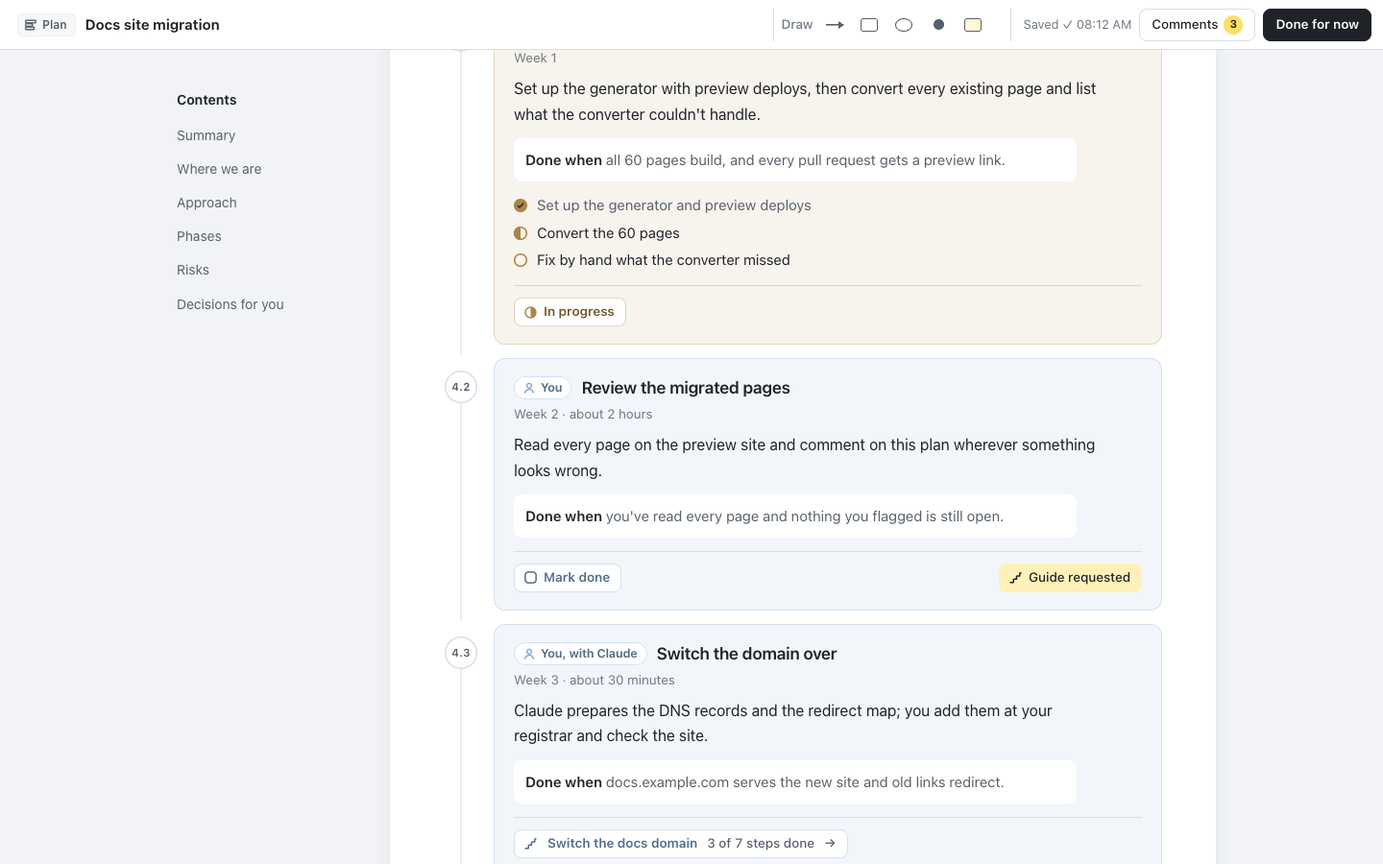
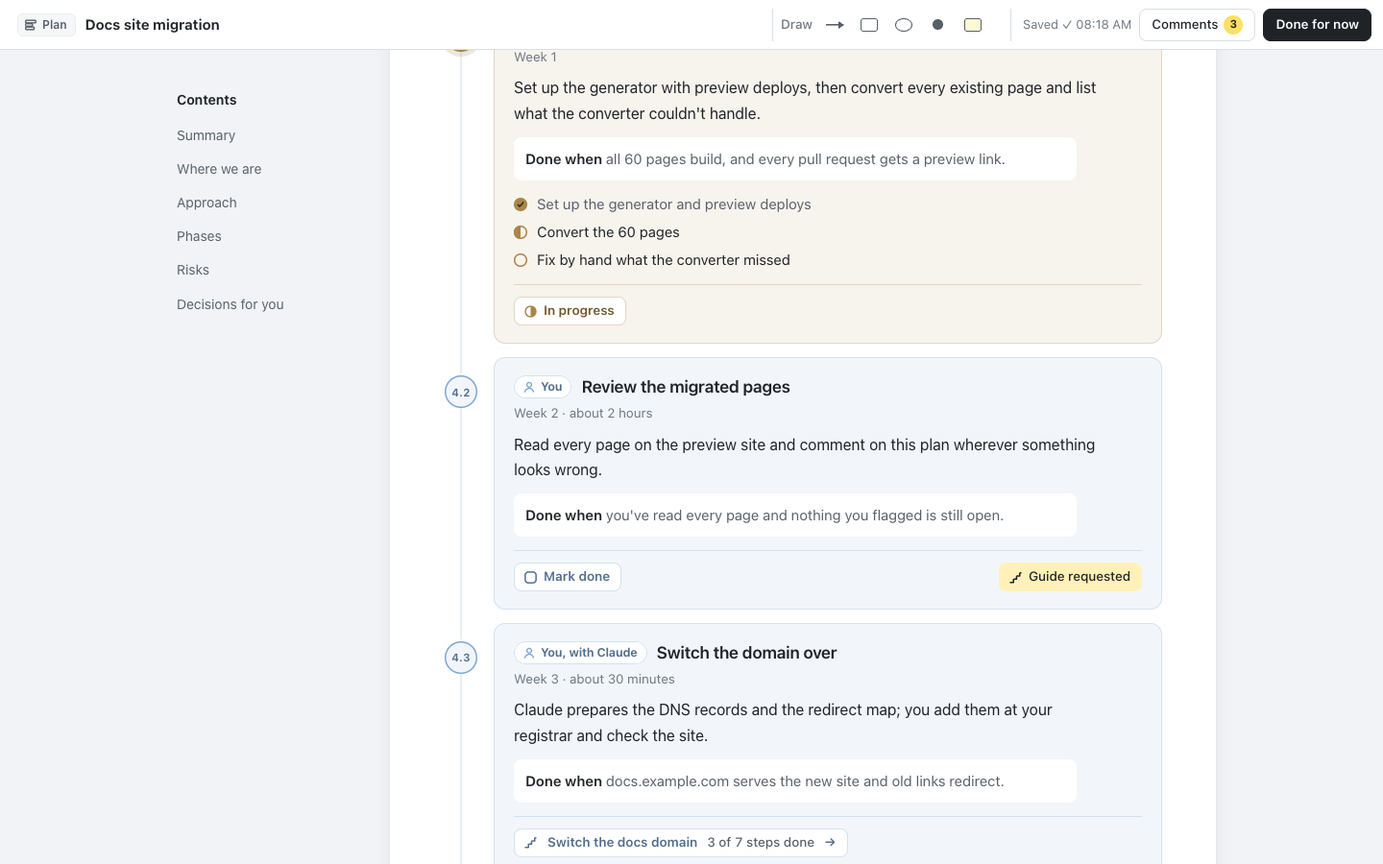
Content and steps look different; WRITING.md holds the rules
Only steps and phases are numbered on the timeline. Entries, lists,
callouts, decisions and tables sit flush with no numbers on every kind of
page, so explanation never reads as part of the sequence. WRITING.md is
the one set of writing rules every page follows (content versus steps,
ledes, concise content), read by make-plan, make-guide, make-reference
and process-notes.

diff --git a/templates/guide.html b/templates/guide.html
@@ -139,25 +139,23 @@ ul.tight { list-style: none; padding: 0; margin: 0 0 14px; }
 ul.tight > li { position: relative; padding: 12px 0; border-top: 1px solid var(--line-2); }
 ul.tight > li:last-child { border-bottom: 1px solid var(--line-2); }
 
-/* ---------- the timeline: each block in a section is a numbered node on a vertical line ---------- */
-.sec :is(.entry, ul.tight > li, .note-box, .step, .phase, .decision) { --tl-top: 12px; --tl-gap: 0px; position: relative; counter-increment: sub; margin-left: 52px; }
-.sec .entry { --tl-top: 12px; }
-.sec ul.tight > li { --tl-top: 10px; }
-.sec .note-box { --tl-top: 10px; --tl-gap: 0px; }
-.sec .step { --tl-top: 14px; --tl-gap: 12px; }
+/* ---------- the timeline: only things to do (steps, phases) are numbered nodes on a line ----------
+   Content (entries, lists, callouts, decisions, tables) sits flush, with no numbers, so it
+   never reads as part of the sequence. */
+.sec :is(.step, .phase) { --tl-top: 14px; --tl-gap: 12px; position: relative; counter-increment: sub; margin-left: 52px; }
 .sec .phase { --tl-top: 18px; --tl-gap: 14px; }
-.sec .decision { --tl-top: 0px; --tl-gap: 26px; }
-.sec :is(.entry, ul.tight > li, .note-box, .step, .phase, .decision)::before {
+.sec :is(.step, .phase)::before {
   content: counter(sec) "." counter(sub); position: absolute; z-index: 1; left: -52px; top: var(--tl-top); width: 34px; height: 34px; border-radius: 50%;
   display: grid; place-items: center; background: var(--paper); box-shadow: inset 0 0 0 1.5px var(--line); color: var(--ink-2);
   font: 650 11.5px/1 var(--sans); font-variant-numeric: tabular-nums; letter-spacing: 0; }
-.sec :is(.entry, ul.tight > li, .note-box, .step, .phase, .decision)::after {
+.sec :is(.step, .phase)::after {
   content: ""; position: absolute; left: -36px; width: 2px; border-radius: 1px; background: var(--line-2);
   top: calc(var(--tl-top) + 34px); bottom: calc(-1 * (var(--tl-gap) + var(--tl-top) + 0px)); }
 /* the line stops at the last node of each run */
-.sec .entry:not(:has(+ .entry, + .note-box))::after, .sec ul.tight > li:last-child::after, .sec .note-box::after,
-.sec .steps > .step:last-child::after, .sec .phases > .phase:last-child::after, .sec .decision:not(:has(+ .decision))::after { display: none; }
+.sec .steps > .step:last-child::after, .sec .phases > .phase:last-child::after { display: none; }
 .sec .phase-h { margin-left: 52px; }
+/* a callout among steps lines up with the step cards */
+.sec .steps + .note-box, .sec .phases + .note-box { margin-left: 52px; }
 
 /* ---------- tables ---------- */
 .table-wrap { overflow-x: auto; margin: 0 0 14px; border: 1px solid var(--line); border-radius: 10px; }
@@ -240,7 +238,7 @@ ul.tasks li[data-status="done"] { color: var(--ink-2); }
 .step .iffail { background: color-mix(in srgb, var(--warn) 8%, var(--paper)); }
 .step .iffail > b:first-child { color: var(--warn); }
 
-/* ---------- references: built for lookup, so the contents sit on the page and there's no timeline ---------- */
+/* ---------- references: built for lookup, so the contents sit on the page ---------- */
 .contents { margin: 22px 0 0; padding: 14px 18px; border-radius: 10px; background: var(--paper-2); }
 .contents h2 { margin: 0 0 6px; font-size: 15px; font-weight: 650; }
 .contents ol { columns: 2 200px; column-gap: 24px; margin: 0; padding-left: 22px; }
@@ -251,9 +249,6 @@ dl.defs > dt { padding-right: 20px; font-weight: 600; overflow-wrap: anywhere; }
 dl.defs > dd { color: var(--ink-2); }
 dl.defs > dd p { margin: 6px 0 0; }
 .sig { margin: 0 0 10px; padding: 10px 12px; border-radius: 8px; background: var(--paper-2); border: 1px solid var(--line-2); font: 14px/1.5 var(--mono); overflow-x: auto; white-space: pre; }
-:root:has(meta[name="pm-kind"][content="reference"]) .sec :is(.entry, ul.tight > li, .note-box) { margin-left: 0; }
-:root:has(meta[name="pm-kind"][content="reference"]) .sec :is(.entry, ul.tight > li, .note-box)::before,
-:root:has(meta[name="pm-kind"][content="reference"]) .sec :is(.entry, ul.tight > li, .note-box)::after { content: none; }
 
 /* On a pointer screen, a block's Comment button floats at its top right instead of taking a line. */
 @media (hover: hover) and (min-width: 721px) {
@@ -281,10 +276,10 @@ dl.defs > dd p { margin: 6px 0 0; }
   .lede { font-size: 17px; }
   .sec > h2 { font-size: 21px; }
   .sec > h2::before { width: 30px; height: 30px; font-size: 14px; }
-  .sec :is(.entry, ul.tight > li, .note-box, .step, .phase, .decision) { margin-left: 38px; }
-  .sec :is(.entry, ul.tight > li, .note-box, .step, .phase, .decision)::before { left: -38px; width: 28px; height: 28px; font-size: 10.5px; }
-  .sec :is(.entry, ul.tight > li, .note-box, .step, .phase, .decision)::after { left: -25px; top: calc(var(--tl-top) + 28px); }
-  .sec .phase-h { margin-left: 38px; }
+  .sec :is(.step, .phase) { margin-left: 38px; }
+  .sec :is(.step, .phase)::before { left: -38px; width: 28px; height: 28px; font-size: 10.5px; }
+  .sec :is(.step, .phase)::after { left: -25px; top: calc(var(--tl-top) + 28px); }
+  .sec .phase-h, .sec .steps + .note-box, .sec .phases + .note-box { margin-left: 38px; }
   .entry { grid-template-columns: minmax(0, 1fr); }
   .entry > .k, .entry > :not(.k) { grid-column: 1; grid-row: auto; }
   .step, .phase { padding: 14px; }

diff --git a/templates/plan.html b/templates/plan.html
@@ -140,25 +140,23 @@ ul.tight { list-style: none; padding: 0; margin: 0 0 14px; }
 ul.tight > li { position: relative; padding: 12px 0; border-top: 1px solid var(--line-2); }
 ul.tight > li:last-child { border-bottom: 1px solid var(--line-2); }
 
-/* ---------- the timeline: each block in a section is a numbered node on a vertical line ---------- */
-.sec :is(.entry, ul.tight > li, .note-box, .step, .phase, .decision) { --tl-top: 12px; --tl-gap: 0px; position: relative; counter-increment: sub; margin-left: 52px; }
-.sec .entry { --tl-top: 12px; }
-.sec ul.tight > li { --tl-top: 10px; }
-.sec .note-box { --tl-top: 10px; --tl-gap: 0px; }
-.sec .step { --tl-top: 14px; --tl-gap: 12px; }
+/* ---------- the timeline: only things to do (steps, phases) are numbered nodes on a line ----------
+   Content (entries, lists, callouts, decisions, tables) sits flush, with no numbers, so it
+   never reads as part of the sequence. */
+.sec :is(.step, .phase) { --tl-top: 14px; --tl-gap: 12px; position: relative; counter-increment: sub; margin-left: 52px; }
 .sec .phase { --tl-top: 18px; --tl-gap: 14px; }
-.sec .decision { --tl-top: 0px; --tl-gap: 26px; }
-.sec :is(.entry, ul.tight > li, .note-box, .step, .phase, .decision)::before {
+.sec :is(.step, .phase)::before {
   content: counter(sec) "." counter(sub); position: absolute; z-index: 1; left: -52px; top: var(--tl-top); width: 34px; height: 34px; border-radius: 50%;
   display: grid; place-items: center; background: var(--paper); box-shadow: inset 0 0 0 1.5px var(--line); color: var(--ink-2);
   font: 650 11.5px/1 var(--sans); font-variant-numeric: tabular-nums; letter-spacing: 0; }
-.sec :is(.entry, ul.tight > li, .note-box, .step, .phase, .decision)::after {
+.sec :is(.step, .phase)::after {
   content: ""; position: absolute; left: -36px; width: 2px; border-radius: 1px; background: var(--line-2);
   top: calc(var(--tl-top) + 34px); bottom: calc(-1 * (var(--tl-gap) + var(--tl-top) + 0px)); }
 /* the line stops at the last node of each run */
-.sec .entry:not(:has(+ .entry, + .note-box))::after, .sec ul.tight > li:last-child::after, .sec .note-box::after,
-.sec .steps > .step:last-child::after, .sec .phases > .phase:last-child::after, .sec .decision:not(:has(+ .decision))::after { display: none; }
+.sec .steps > .step:last-child::after, .sec .phases > .phase:last-child::after { display: none; }
 .sec .phase-h { margin-left: 52px; }
+/* a callout among steps lines up with the step cards */
+.sec .steps + .note-box, .sec .phases + .note-box { margin-left: 52px; }
 
 /* ---------- tables ---------- */
 .table-wrap { overflow-x: auto; margin: 0 0 14px; border: 1px solid var(--line); border-radius: 10px; }
@@ -241,7 +239,7 @@ ul.tasks li[data-status="done"] { color: var(--ink-2); }
 .step .iffail { background: color-mix(in srgb, var(--warn) 8%, var(--paper)); }
 .step .iffail > b:first-child { color: var(--warn); }
 
-/* ---------- references: built for lookup, so the contents sit on the page and there's no timeline ---------- */
+/* ---------- references: built for lookup, so the contents sit on the page ---------- */
 .contents { margin: 22px 0 0; padding: 14px 18px; border-radius: 10px; background: var(--paper-2); }
 .contents h2 { margin: 0 0 6px; font-size: 15px; font-weight: 650; }
 .contents ol { columns: 2 200px; column-gap: 24px; margin: 0; padding-left: 22px; }
@@ -252,9 +250,6 @@ dl.defs > dt { padding-right: 20px; font-weight: 600; overflow-wrap: anywhere; }
 dl.defs > dd { color: var(--ink-2); }
 dl.defs > dd p { margin: 6px 0 0; }
 .sig { margin: 0 0 10px; padding: 10px 12px; border-radius: 8px; background: var(--paper-2); border: 1px solid var(--line-2); font: 14px/1.5 var(--mono); overflow-x: auto; white-space: pre; }
-:root:has(meta[name="pm-kind"][content="reference"]) .sec :is(.entry, ul.tight > li, .note-box) { margin-left: 0; }
-:root:has(meta[name="pm-kind"][content="reference"]) .sec :is(.entry, ul.tight > li, .note-box)::before,
-:root:has(meta[name="pm-kind"][content="reference"]) .sec :is(.entry, ul.tight > li, .note-box)::after { content: none; }
 
 /* On a pointer screen, a block's Comment button floats at its top right instead of taking a line. */
 @media (hover: hover) and (min-width: 721px) {
@@ -282,10 +277,10 @@ dl.defs > dd p { margin: 6px 0 0; }
   .lede { font-size: 17px; }
   .sec > h2 { font-size: 21px; }
   .sec > h2::before { width: 30px; height: 30px; font-size: 14px; }
-  .sec :is(.entry, ul.tight > li, .note-box, .step, .phase, .decision) { margin-left: 38px; }
-  .sec :is(.entry, ul.tight > li, .note-box, .step, .phase, .decision)::before { left: -38px; width: 28px; height: 28px; font-size: 10.5px; }
-  .sec :is(.entry, ul.tight > li, .note-box, .step, .phase, .decision)::after { left: -25px; top: calc(var(--tl-top) + 28px); }
-  .sec .phase-h { margin-left: 38px; }
+  .sec :is(.step, .phase) { margin-left: 38px; }
+  .sec :is(.step, .phase)::before { left: -38px; width: 28px; height: 28px; font-size: 10.5px; }
+  .sec :is(.step, .phase)::after { left: -25px; top: calc(var(--tl-top) + 28px); }
+  .sec .phase-h, .sec .steps + .note-box, .sec .phases + .note-box { margin-left: 38px; }
   .entry { grid-template-columns: minmax(0, 1fr); }
   .entry > .k, .entry > :not(.k) { grid-column: 1; grid-row: auto; }
   .step, .phase { padding: 14px; }

diff --git a/templates/reference.html b/templates/reference.html
@@ -134,25 +134,23 @@ ul.tight { list-style: none; padding: 0; margin: 0 0 14px; }
 ul.tight > li { position: relative; padding: 12px 0; border-top: 1px solid var(--line-2); }
 ul.tight > li:last-child { border-bottom: 1px solid var(--line-2); }
 
-/* ---------- the timeline: each block in a section is a numbered node on a vertical line ---------- */
-.sec :is(.entry, ul.tight > li, .note-box, .step, .phase, .decision) { --tl-top: 12px; --tl-gap: 0px; position: relative; counter-increment: sub; margin-left: 52px; }
-.sec .entry { --tl-top: 12px; }
-.sec ul.tight > li { --tl-top: 10px; }
-.sec .note-box { --tl-top: 10px; --tl-gap: 0px; }
-.sec .step { --tl-top: 14px; --tl-gap: 12px; }
+/* ---------- the timeline: only things to do (steps, phases) are numbered nodes on a line ----------
+   Content (entries, lists, callouts, decisions, tables) sits flush, with no numbers, so it
+   never reads as part of the sequence. */
+.sec :is(.step, .phase) { --tl-top: 14px; --tl-gap: 12px; position: relative; counter-increment: sub; margin-left: 52px; }
 .sec .phase { --tl-top: 18px; --tl-gap: 14px; }
-.sec .decision { --tl-top: 0px; --tl-gap: 26px; }
-.sec :is(.entry, ul.tight > li, .note-box, .step, .phase, .decision)::before {
+.sec :is(.step, .phase)::before {
   content: counter(sec) "." counter(sub); position: absolute; z-index: 1; left: -52px; top: var(--tl-top); width: 34px; height: 34px; border-radius: 50%;
   display: grid; place-items: center; background: var(--paper); box-shadow: inset 0 0 0 1.5px var(--line); color: var(--ink-2);
   font: 650 11.5px/1 var(--sans); font-variant-numeric: tabular-nums; letter-spacing: 0; }
-.sec :is(.entry, ul.tight > li, .note-box, .step, .phase, .decision)::after {
+.sec :is(.step, .phase)::after {
   content: ""; position: absolute; left: -36px; width: 2px; border-radius: 1px; background: var(--line-2);
   top: calc(var(--tl-top) + 34px); bottom: calc(-1 * (var(--tl-gap) + var(--tl-top) + 0px)); }
 /* the line stops at the last node of each run */
-.sec .entry:not(:has(+ .entry, + .note-box))::after, .sec ul.tight > li:last-child::after, .sec .note-box::after,
-.sec .steps > .step:last-child::after, .sec .phases > .phase:last-child::after, .sec .decision:not(:has(+ .decision))::after { display: none; }
+.sec .steps > .step:last-child::after, .sec .phases > .phase:last-child::after { display: none; }
 .sec .phase-h { margin-left: 52px; }
+/* a callout among steps lines up with the step cards */
+.sec .steps + .note-box, .sec .phases + .note-box { margin-left: 52px; }
 
 /* ---------- tables ---------- */
 .table-wrap { overflow-x: auto; margin: 0 0 14px; border: 1px solid var(--line); border-radius: 10px; }
@@ -235,7 +233,7 @@ ul.tasks li[data-status="done"] { color: var(--ink-2); }
 .step .iffail { background: color-mix(in srgb, var(--warn) 8%, var(--paper)); }
 .step .iffail > b:first-child { color: var(--warn); }
 
-/* ---------- references: built for lookup, so the contents sit on the page and there's no timeline ---------- */
+/* ---------- references: built for lookup, so the contents sit on the page ---------- */
 .contents { margin: 22px 0 0; padding: 14px 18px; border-radius: 10px; background: var(--paper-2); }
 .contents h2 { margin: 0 0 6px; font-size: 15px; font-weight: 650; }
 .contents ol { columns: 2 200px; column-gap: 24px; margin: 0; padding-left: 22px; }
@@ -246,9 +244,6 @@ dl.defs > dt { padding-right: 20px; font-weight: 600; overflow-wrap: anywhere; }
 dl.defs > dd { color: var(--ink-2); }
 dl.defs > dd p { margin: 6px 0 0; }
 .sig { margin: 0 0 10px; padding: 10px 12px; border-radius: 8px; background: var(--paper-2); border: 1px solid var(--line-2); font: 14px/1.5 var(--mono); overflow-x: auto; white-space: pre; }
-:root:has(meta[name="pm-kind"][content="reference"]) .sec :is(.entry, ul.tight > li, .note-box) { margin-left: 0; }
-:root:has(meta[name="pm-kind"][content="reference"]) .sec :is(.entry, ul.tight > li, .note-box)::before,
-:root:has(meta[name="pm-kind"][content="reference"]) .sec :is(.entry, ul.tight > li, .note-box)::after { content: none; }
 
 /* On a pointer screen, a block's Comment button floats at its top right instead of taking a line. */
 @media (hover: hover) and (min-width: 721px) {
@@ -276,10 +271,10 @@ dl.defs > dd p { margin: 6px 0 0; }
   .lede { font-size: 17px; }
   .sec > h2 { font-size: 21px; }
   .sec > h2::before { width: 30px; height: 30px; font-size: 14px; }
-  .sec :is(.entry, ul.tight > li, .note-box, .step, .phase, .decision) { margin-left: 38px; }
-  .sec :is(.entry, ul.tight > li, .note-box, .step, .phase, .decision)::before { left: -38px; width: 28px; height: 28px; font-size: 10.5px; }
-  .sec :is(.entry, ul.tight > li, .note-box, .step, .phase, .decision)::after { left: -25px; top: calc(var(--tl-top) + 28px); }
-  .sec .phase-h { margin-left: 38px; }
+  .sec :is(.step, .phase) { margin-left: 38px; }
+  .sec :is(.step, .phase)::before { left: -38px; width: 28px; height: 28px; font-size: 10.5px; }
+  .sec :is(.step, .phase)::after { left: -25px; top: calc(var(--tl-top) + 28px); }
+  .sec .phase-h, .sec .steps + .note-box, .sec .phases + .note-box { margin-left: 38px; }
   .entry { grid-template-columns: minmax(0, 1fr); }
   .entry > .k, .entry > :not(.k) { grid-column: 1; grid-row: auto; }
   .step, .phase { padding: 14px; }

diff --git a/DESIGN.md b/DESIGN.md
@@ -116,19 +116,19 @@ All three templates share one style block, word for word, and the hub wears it t
 
 - One family, the system sans, for everything except code.
 - Body 16px/1.65 with a measure of about 70 characters. Headings in weight 600–650: h1 34, h2 24, h3 18, h4 16.5. Sentence case throughout.
-- No eyebrow labels, no tracked capitals, no loose gutter numbers. Numbers appear only in two systems: the section badge before each h2 (1, 2, 3) and the timeline nodes inside a section (2.1, 2.2).
+- No eyebrow labels, no tracked capitals, no loose gutter numbers. Numbers appear only in two systems: the section badge before each h2 (1, 2, 3) and the timeline nodes on steps and phases (2.1, 2.2). Content is never numbered.
 - Monospace only in code blocks and inline `code`. Tabular numerals in progress counts and tables.
 
 ## Layout
 
 - **Pages:** like a Word document, each section is its own white page (max 860px, radius 12px, soft shadow, 48px/56px padding), stacked 24px apart on the `ground`. The hero is the cover page. "Page n" sits small in each page's bottom-right corner. On wide screens a contents list sits to the left. On phones the pages run nearly edge to edge (8px margin, radius 10px, 16px padding).
 - **Sections:** h2 with a rounded number badge (34px, `paper-2`) before it, then a one-sentence lede (`.lede`, 18px, `ink-2`) saying what the section covers and why it's there. Every section has one, on every kind of page, so no section opens straight into its steps, phases or tables. In a plan, the lede also says whether the section describes what gets built or is the work itself.
-- **Timeline:** inside a section, every entry, list item, callout, step and decision is a numbered node (2.1, 2.2…) on a vertical line on the left. Nodes are 34px circles on a 2px `line-2` line, with content indented 52px.
+- **Timeline:** only things to do are on it. Each step and phase is a numbered node (2.1, 2.2…) on a vertical line on the left: 34px circles on a 2px `line-2` line, with the cards indented 52px. Content (entries, lists, callouts, decisions, tables, definitions) sits flush, with no node and no number, on every kind of page, so explanation never reads as part of the sequence. A callout placed among steps lines up with the step cards. What counts as content and what as a step is in `WRITING.md`.
   - **Steps:** a node takes its owner's colour (tint fill, ring). It fills solid with a check when done, the line below a done node takes the owner's colour, and the next undone step (whoever owns it) gets a soft halo ring.
   - **The line** breaks between runs, e.g. across a phase heading.
 - **Phases (plans):** each phase is its own card, 14px apart, a little roomier than a step card (radius 12px, 18px/20px padding). They sit on the timeline like steps.
 - **Steps (guides):** grouped under a short heading (h3 plus when, aligned with the cards). Each step is its own card with 12px between cards, so steps never run together.
-- **References:** no timeline nodes and no number circles inside sections: entries, lists and callouts sit flush. The contents list is on the cover as well as in the side rail, because a reference is read by jumping.
+- **References:** having no steps, they have no timeline at all. The contents list is on the cover as well as in the side rail, because a reference is read by jumping.
 - **The comment panel** sits on the right like the Docs comment sidebar, a column of rounded comment cards. It is closed until you comment or press Comments.
 - **Hub:** a full-height sidebar on its own white surface: search, a type filter (All, Plans, Guides, References), "Waiting on you", then collapsible project groups with one line per page (status dot, kind icon, name, a count when it waits on you), a plan's guides indented beneath it on a hairline, and done or archived pages collapsed at the bottom. A button collapses it to a 56px rail. The main area shows "Waiting on you" as pages, or the selected plan itself, live, in a frame with nothing of the hub's above it. The hub never uses red.
 
@@ -169,7 +169,7 @@ All three templates share one style block, word for word, and the hub wears it t
 - **Do** keep the kinds apart by shape and words, never colour: a plan's phases, a guide's steps, a reference's flat sections, and the neutral kind chip.
 - **Don't** put a list of the user's steps inside a plan's phase. That's a guide.
 - **Do** keep everything else quiet: neutral greys, one weight of rule, plain text.
-- **Don't** add verdict controls, loose gutter numbers or eyebrows. Numbering belongs to the section badges and the timeline only.
+- **Don't** add verdict controls, loose gutter numbers or eyebrows. Numbering belongs to the section badges and the steps' timeline only.
 - **Do** reuse the template's stylesheet for every other surface. The hub server injects it, so the hub can never drift from the plan page.
 - **Don't** use blue or gold for anything that isn't ownership.
 - **Don't** use a coloured left border as the owner marker. The card's tint and border do that job.

diff --git a/WRITING.md b/WRITING.md
@@ -1,0 +1,57 @@
+# Writing a plan-maker page
+
+The rules every page follows: plans, guides and references alike. `make-plan`, `make-guide`, `make-reference` and `process-notes` read this before they write. `DESIGN.md` says how the page looks; this says what goes on it.
+
+## Two kinds of block: content and steps
+
+Everything on a page is one or the other, and the reader must always be able to tell which at a glance.
+
+| | **Steps** (and a plan's **phases**) | **Content** |
+|---|---|---|
+| What it is | Something someone has to do | Something to understand: what, why, how it works, what we found |
+| Looks like | A card coloured by its owner, numbered on a line (2.1, 2.2), with **Mark done** or Claude's status | Flush on the page: no number, no line, no owner, no card colour |
+| Markup | `.step` in `.steps`, `.phase` in `.phases` | `.entry`, `ul.tight`, a table, `dl.defs`, a paragraph, `.note-box` |
+| Heading | The action, verb first: "Add the CNAME record" | The point, as a statement: "Agents use keys without ever seeing them" |
+
+- **Only steps and phases are numbered.** Never number content, and never imitate a step for it (no "1." in a heading, no owner chip, no blue or gold).
+- **Never mix the two in one block.** If an explanation ends in "so now run…", the run is a step of its own. If a step needs background, give it one sentence inside the step, or put the background in a content section before the steps.
+- **Content comes before the steps that need it.** A section of explanation, then a section of steps. Each section is one or the other.
+- **In a plan,** a content section that describes what gets built says so in its lede and names the phase that builds it. See [Ledes](#ledes).
+
+## Ledes
+
+Every section opens with a one-sentence lede (`<p class="lede">` right after its `<h2>`): what the section covers and why it's there. Never open a section straight into its steps, entries or table.
+
+- A content section's lede says what the reader will learn: "What SnackVault is, what's built, and what today's run proves."
+- A steps section's lede says what the steps get done and who does them: "The two DNS records that point the domain at the new site. Claude prepares them; you add them."
+- In a plan, a design section's lede says it's the design and names the phase: "What the finished hub shows. The Hub phase builds it."
+
+## Writing content clearly and concisely
+
+Assume the reader skims. Each block should be understood from its heading alone, with the body as backup.
+
+1. **Heading states the point.** A full statement a skimmer could stop at ("All of it is built; it has only run in test mode"), not a topic ("Status").
+2. **Body: two sentences at most**, about 40 words. Give the one fact or reason that backs up the heading. Don't repeat the heading.
+3. **One idea per block.** Two ideas means two blocks.
+4. **Choose the lightest form that fits:**
+
+   | You have | Use |
+   |---|---|
+   | One explanation | A paragraph |
+   | A few parallel facts, each with a short name ("The problem", "What it does", "Where it stands") | `.entry` blocks: a label in `.k`, the point as `<h3>`, one or two sentences |
+   | Three or more short parallel points | `ul.tight`: each item leads with its point in `<b>` |
+   | Things compared on the same attributes | A table |
+   | Terms, commands or fields to look up | `dl.defs` |
+   | One caveat or warning the reader must not miss | `.note-box`, at most one per section |
+
+5. **Lists inside an entry: three short items at most.** More than that and it's its own list or a table.
+6. **Plain words.** Name things the way the reader does. Define a term the first time, or link it. No jargon you wouldn't say out loud.
+7. **Concrete over abstract.** "247 automated tests pass", not "it's well tested". Real names, numbers and paths.
+8. **Cut** anything the reader doesn't need to decide, do or understand the next step.
+
+## Writing steps
+
+- One action per step, with an `<h4>` that is that action, verb first.
+- The exact thing to paste in its own `<pre data-label>` block; "You should see" and "If it fails" where they help (guides).
+- Claude's steps are short hand-offs; the user's carry the detail.
+- Every step and phase has an owner (`data-who`). Content never does.

diff --git a/skills/make-plan/SKILL.md b/skills/make-plan/SKILL.md
@@ -34,6 +34,8 @@ Use the path the user names. Otherwise use `plans/<slug>/index.html` from the pr
 
 ## 3. Write the page
 
+**First read `${CLAUDE_PLUGIN_ROOT}/WRITING.md`**, the rules every plan-maker page follows: content and steps kept apart (only steps and phases are numbered and owned; explanation sits flush), a one-sentence lede on every section, and content written to be understood from its headings, two sentences a block at most.
+
 Copy `${CLAUDE_PLUGIN_ROOT}/templates/plan.html` and replace every piece of example content. Keep `<meta name="pm-kind" content="plan">` and the template's style block exactly as it is (it is shared, word for word, with the guide and reference templates); add page-specific CSS in a second `<style>` element if you must. Shape the sections to fit the plan, and keep the contents rail in sync with them. Write no JavaScript. Keep the page self-contained.
 
 | Mark | Put it on | Rules |
@@ -52,7 +54,7 @@ Copy `${CLAUDE_PLUGIN_ROOT}/templates/plan.html` and replace every piece of exam
 | `<p class="slug">` | Under the `<h1>` | `<span>Plan v1</span><span>For review</span><span>DATE</span>`. Match `<meta name="plan-version">` (start at `1`) and `<meta name="plan-date">` (`YYYY-MM-DD`). |
 | `<div class="progress" data-pm-progress></div>` | The hero, after the lede | Keep it empty: the review layer draws the phases' progress there. |
 
-**Keep the design and the work apart, and say which is which.** A plan has two kinds of section: ones that describe **what gets built** (how it works, what it looks like, what changes) and the **Phases** section, which is the work. A design section's lede says so and names the phase that builds it ("What the finished hub shows. The Hub phase builds it."). Each phase's **Done when** names what it produces. A reader should never have to wonder whether a section is something to do.
+**Keep the design and the work apart, and say which is which.** A plan has two kinds of section: ones that describe **what gets built** (how it works, what it looks like, what changes) and the **Phases** section, which is the work. A design section's lede says so and names the phase that builds it ("What the finished hub shows. The Hub phase builds it."). Each phase's **Done when** names what it produces. A reader should never have to wonder whether a section is something to do (`WRITING.md`, "Two kinds of block").
 
 Write for someone skimming in a browser: lead each entry with its point, and keep each phase to what it achieves and why. Write no eyebrow labels and no section or phase numbers yourself (they're drawn for you). Keep heading levels in order: `<h2>` for sections, `<h3>` for entries, phases and decisions. Use sentence case in `<title>`.
 

diff --git a/skills/process-notes/SKILL.md b/skills/process-notes/SKILL.md
@@ -21,7 +21,7 @@ The previous version stays read-only, with the notes written on it, and the user
 - **The page**: the argument, else the page reviewed in this conversation, else the newest `notes.json` under `plans/` or `docs/`. Read the page's HTML in full, and note its kind.
 - **The notes**: `notes.json` beside the page. If it's missing, the user may have reviewed offline: look for the newest `notes.json` in `~/Downloads` and ask before using it (copy it beside the page as `notes.json`).
 - **The version N**: `<meta name="plan-version">` (else "Plan v<N>" in its slug). `planVersion` in the notes should match.
-- **The writing rules for its kind**: `make-plan`, `make-guide` or `make-reference`. The next version follows them.
+- **The writing rules**: `${CLAUDE_PLUGIN_ROOT}/WRITING.md` for every page, and `make-plan`, `make-guide` or `make-reference` for its kind. The next version follows them, including where the page you're revising doesn't yet: content written as steps (or numbered), sections with no lede, and blocks that run long get fixed in the sections you touch.
 
 ## 2. Map every entry to the page
 
@@ -91,7 +91,7 @@ Don't start a review server for each guide: the phase's card opens it.
 
 Edit the page in place (its path stays the same, so the user's URL keeps working):
 
-- Make every change from the table, following the writing rules for the page's kind. A page from before a rule existed is brought up to it as you go: every section you touch (and any section that lacks one) gets its one-sentence lede. Edited elements keep their `data-id`; new elements get new ids; ids of cut elements are not reused. If the page relied on ids assigned in the browser (`autoIds`), write explicit `data-id`s and `class="item"`s now, reusing the auto ids where the element survives.
+- Make every change from the table, following the writing rules for the page's kind. Edited elements keep their `data-id`; new elements get new ids; ids of cut elements are not reused. If the page relied on ids assigned in the browser (`autoIds`), write explicit `data-id`s and `class="item"`s now, reusing the auto ids where the element survives.
 - Mark every element you edited or added with `data-changed="v<N+1>"`: the page shows it with an "Updated in v<N+1>" chip. Remove `data-changed` attributes left from earlier rounds.
 - **Answer every question where it was asked.** Add an `aside.explain` inside the step or entry it was about, right after the part it concerns:
   ```html

diff --git a/CHANGELOG.md b/CHANGELOG.md
@@ -24,6 +24,7 @@
 - **Drawing**: draw tools, always in the top bar, add arrows, boxes, circles, points and sticky notes anywhere on the page. They're anchored to the block under them, saved in `notes.json` as `drawings[]` and read by `process-plan-notes`.
 - The toolbar is now a bar fixed to the top of the page; on phones it takes two rows.
 
+- **Content and steps look different.** Only steps and phases are numbered on the timeline; entries, lists, callouts, decisions and tables sit flush with no numbers, on every kind of page, so explanation no longer reads as part of the sequence. New `WRITING.md` holds the writing rules every page follows (content versus steps, ledes, concise content: the point in the heading, two sentences a block), read by all the writing skills and `process-notes`.
 - **Every section opens with a one-sentence summary** (`<p class="lede">` after its `<h2>`) saying what it covers and why it's there, in all three templates and their writing skills. In a plan, a section that describes what gets built says so and names the phase that builds it, so design is never mistaken for steps.
 - **Running servers in the hub**: every review server on this machine, by page, with whether a tab has it open. Orphans (page deleted or moved, a duplicate server) are flagged; **Stop** one, the orphans, the ones not in use, or servers from older versions. Each server keeps a record in `~/.plan-maker/servers/` (`lib/servers.mjs`), so it's found on any port, and a second start reuses it there too.
 - **Idle stop**: an open tab pings its server once a minute; a server with no tab for `--idle-hours` (or `PLAN_MAKER_IDLE_HOURS`; default 12, `0` never) stops itself. Sleep doesn't count. The page says when its server has stopped.

diff --git a/skills/make-reference/SKILL.md b/skills/make-reference/SKILL.md
@@ -25,6 +25,8 @@ The path the user names. Otherwise `docs/reference/<slug>/index.html` if the pro
 
 ## 3. Write the page
 
+**First read `${CLAUDE_PLUGIN_ROOT}/WRITING.md`**, the rules every plan-maker page follows: content and steps kept apart (only steps and phases are numbered and owned; explanation sits flush), a one-sentence lede on every section, and content written to be understood from its headings, two sentences a block at most.
+
 Copy `${CLAUDE_PLUGIN_ROOT}/templates/reference.html` and replace every piece of example content. Keep `<meta name="pm-kind" content="reference">` and the template's style block exactly as it is (it is shared, word for word, with the plan and guide templates). Write no JavaScript. Keep the page self-contained.
 
 | Mark | Put it on | Rules |

diff --git a/skills/make-guide/SKILL.md b/skills/make-guide/SKILL.md
@@ -37,6 +37,8 @@ If that folder already holds a guide, this is a revision: use `process-notes`, w
 
 ## 3. Write the page
 
+**First read `${CLAUDE_PLUGIN_ROOT}/WRITING.md`**, the rules every plan-maker page follows: content and steps kept apart (only steps and phases are numbered and owned; explanation sits flush), a one-sentence lede on every section, and content written to be understood from its headings, two sentences a block at most.
+
 Copy `${CLAUDE_PLUGIN_ROOT}/templates/guide.html` and replace every piece of example content. Keep `<meta name="pm-kind" content="guide">` and the template's style block exactly as it is (it is shared, word for word, with the plan and reference templates). Write no JavaScript. Keep the page self-contained.
 
 | Mark | Put it on | Rules |

diff --git a/README.md b/README.md
@@ -166,7 +166,7 @@ Highlights are stored as character offsets within a block, counting only the pla
 
 ## HTML conventions
 
-`templates/plan.html`, `templates/guide.html` and `templates/reference.html` show each of these in use (light and dark, down to phone width). The three share one style block, word for word. DESIGN.md has the visual system.
+`templates/plan.html`, `templates/guide.html` and `templates/reference.html` show each of these in use (light and dark, down to phone width). The three share one style block, word for word. DESIGN.md has the visual system, and WRITING.md the writing rules every page follows: content kept apart from steps, a lede on every section, content concise enough to skim.
 
 | Mark | Effect |
 |---|---|
